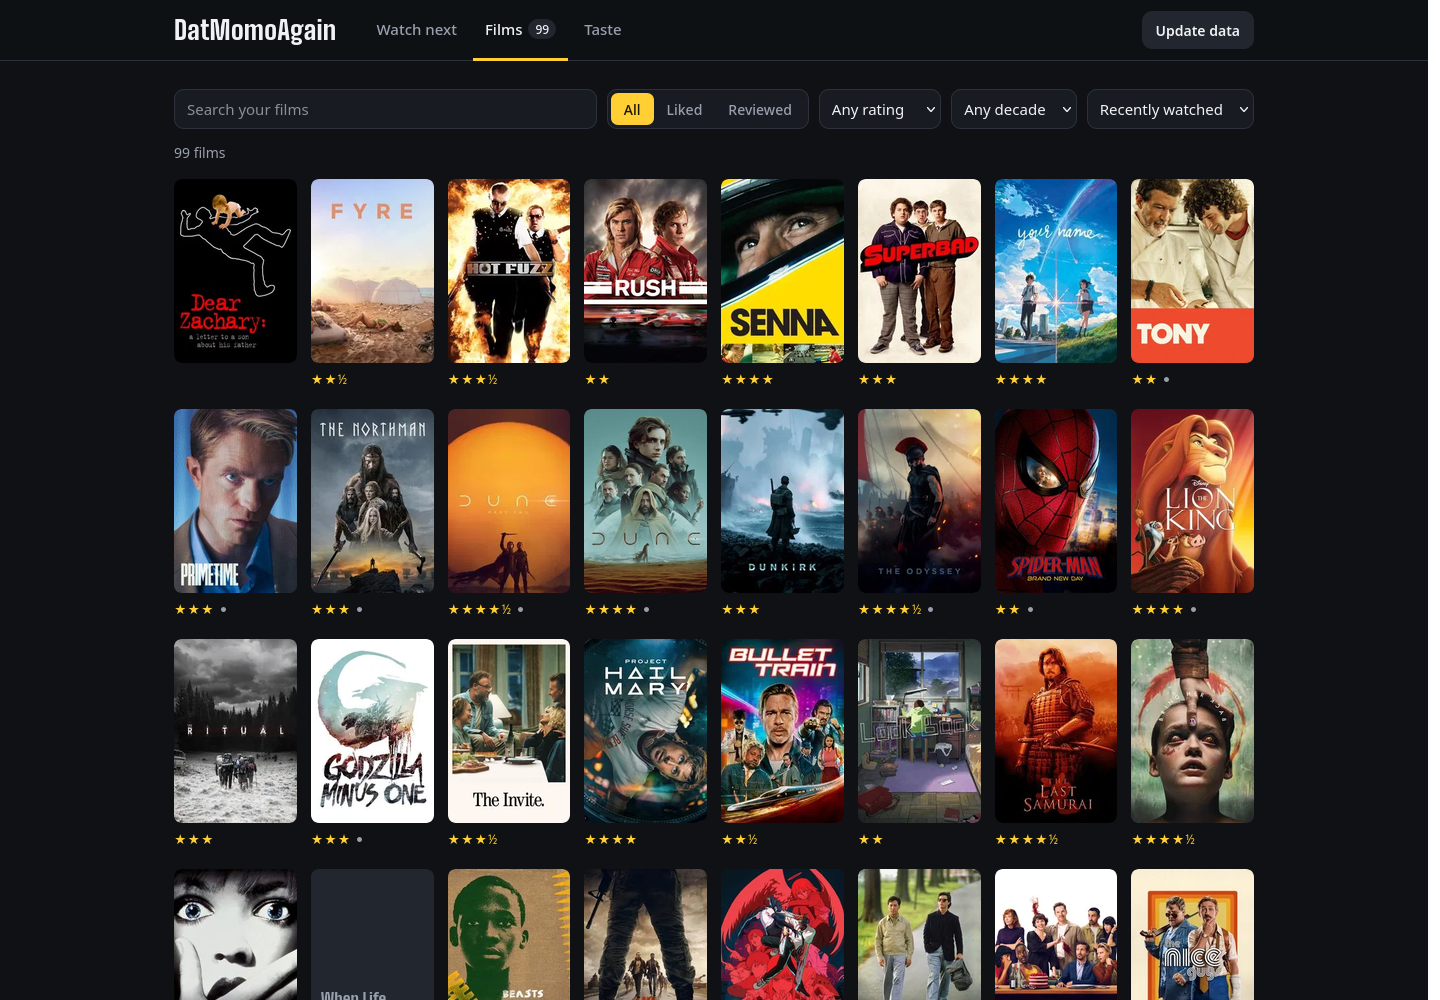
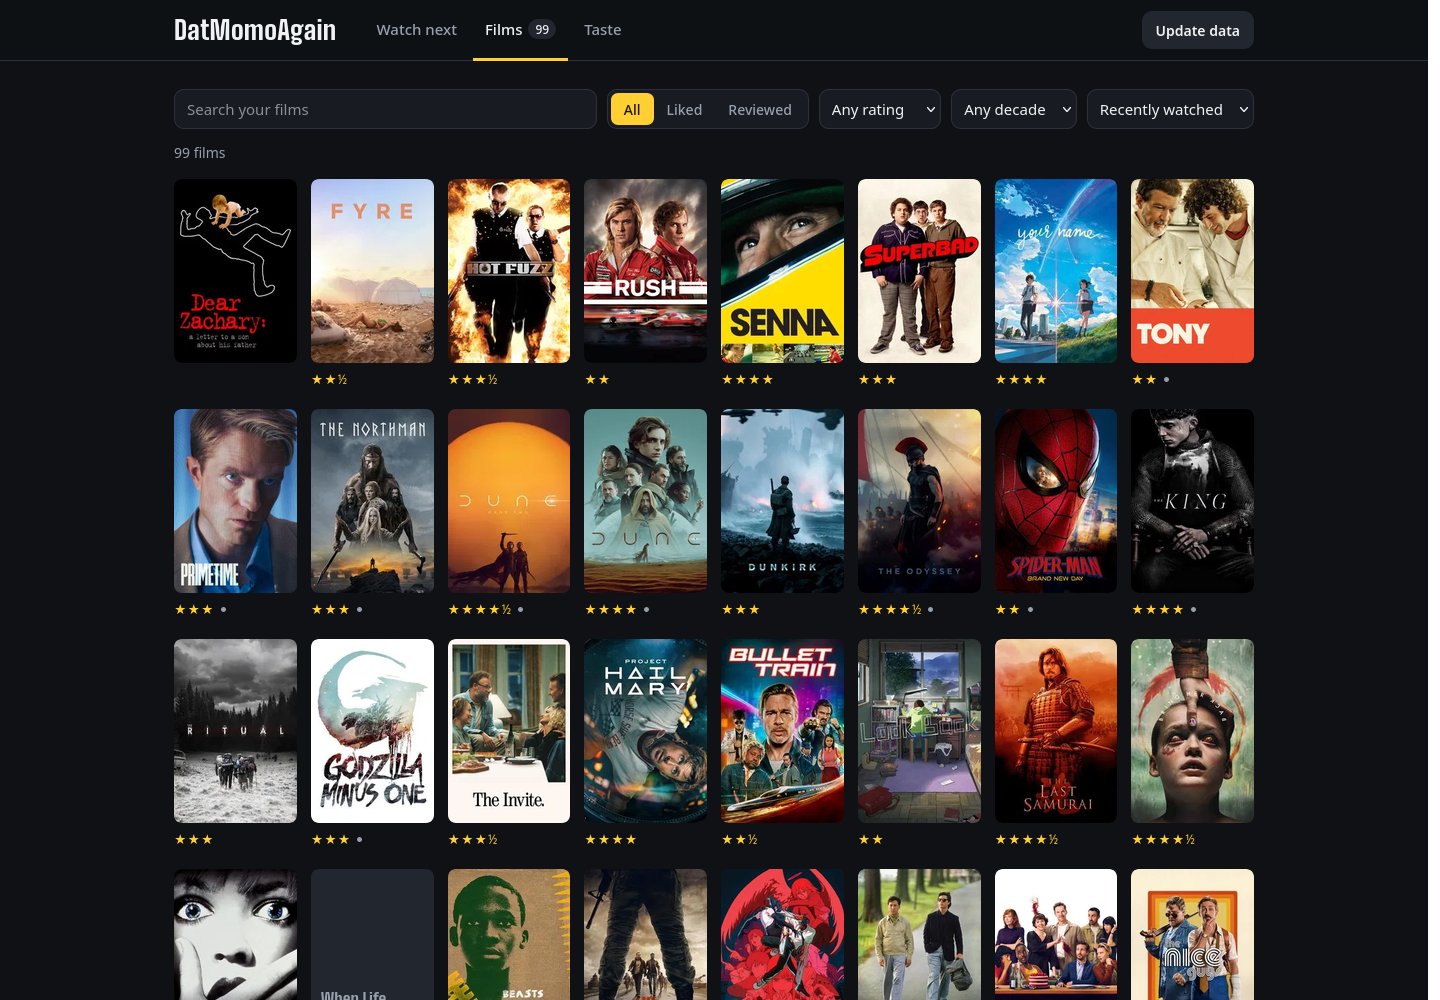
Match posters by exact title and year, and by IMDb id for picks
TMDB ranks search results by popularity, so "The King" (2019) was getting
The Lion King's poster. Refresh the README screenshots.

Changed region(s): [[0.7812, 0.403, 0.875, 0.62]]

diff --git a/src/posters.ts b/src/posters.ts
@@ -16,6 +16,8 @@ export type Posters = Map<string, string>;
 export interface FilmRef {
   title: string;
   year: number | null;
+  /** Known for Claude's picks; makes the poster lookup exact. */
+  imdbId?: string;
 }
 
 export const filmKey = (f: FilmRef) => `${f.title.trim().toLowerCase()}|${f.year ?? ""}`;
@@ -24,16 +26,48 @@ export function posterUrl(path: string, width: 92 | 185 | 342 | 500): string {
   return `https://image.tmdb.org/t/p/w${width}${path}`;
 }
 
-/** One TMDB search; returns the top result's poster_path or null. Throws on network/HTTP errors. */
+interface TmdbResult {
+  title?: string;
+  original_title?: string;
+  release_date?: string;
+  poster_path?: string | null;
+}
+
+/** Titles compare equal regardless of case, accents and punctuation. */
+const plain = (s: string | undefined) =>
+  (s ?? "")
+    .normalize("NFD")
+    .replace(/[̀-ͯ]/g, "")
+    .toLowerCase()
+    .replace(/[^a-z0-9]+/g, "");
+
+/**
+ * One TMDB request; returns a poster_path or null. Throws on network/HTTP errors.
+ * With an IMDb id (picks have one) the film is looked up by it. Otherwise it's a title search,
+ * preferring a result with exactly this title from this year: TMDB ranks by popularity, so
+ * "The King" (2019) would otherwise get The Lion King's poster.
+ */
 async function searchPoster(f: FilmRef, token: string, fetcher: typeof fetch): Promise<string | null> {
-  const q = new URLSearchParams({ query: f.title, include_adult: "false" });
-  if (f.year) q.set("year", String(f.year));
-  const res = await fetcher(`https://api.themoviedb.org/3/search/movie?${q}`, {
-    headers: { authorization: `Bearer ${token}`, accept: "application/json" },
-  });
-  if (!res.ok) throw new Error(`TMDB ${res.status}`);
-  const body = (await res.json()) as { results?: { poster_path?: string | null }[] };
-  const path = body.results?.find((r) => r.poster_path)?.poster_path;
+  const get = async (path: string) => {
+    const res = await fetcher(`https://api.themoviedb.org/3/${path}`, {
+      headers: { authorization: `Bearer ${token}`, accept: "application/json" },
+    });
+    if (!res.ok) throw new Error(`TMDB ${res.status}`);
+    return (await res.json()) as { results?: TmdbResult[]; movie_results?: TmdbResult[]; tv_results?: TmdbResult[] };
+  };
+  let found: TmdbResult | undefined;
+  if (f.imdbId && /^tt\d{5,10}$/.test(f.imdbId)) {
+    const body = await get(`find/${f.imdbId}?external_source=imdb_id`);
+    found = [...(body.movie_results ?? []), ...(body.tv_results ?? [])].find((r) => r.poster_path);
+  } else {
+    const q = new URLSearchParams({ query: f.title, include_adult: "false" });
+    if (f.year) q.set("year", String(f.year));
+    const withPoster = ((await get(`search/movie?${q}`)).results ?? []).filter((r) => r.poster_path);
+    const want = plain(f.title);
+    const sameYear = (r: TmdbResult) => !f.year || Math.abs(Number.parseInt(r.release_date ?? "", 10) - f.year) <= 1;
+    found = withPoster.find((r) => sameYear(r) && (plain(r.title) === want || plain(r.original_title) === want)) ?? withPoster[0];
+  }
+  const path = found?.poster_path;
   return typeof path === "string" && /^\/[\w.-]+$/.test(path) ? path : null;
 }
 

diff --git a/tests/posters.test.ts b/tests/posters.test.ts
@@ -40,6 +40,33 @@ describe("resolvePosters", () => {
     expect(r2.posters.get(filmKey(films[0]))).toBe("/heat.jpg");
   });
 
+  it("prefers the exact title from that year over a more popular near-match, and looks picks up by IMDb id", async () => {
+    const paths: string[] = [];
+    const fetcher = (async (input: RequestInfo | URL) => {
+      const url = new URL(String(input));
+      paths.push(url.pathname);
+      if (url.pathname === "/3/find/tt1663202") {
+        expect(url.searchParams.get("external_source")).toBe("imdb_id");
+        return Response.json({ movie_results: [{ title: "The Revenant", poster_path: "/revenant.jpg" }], tv_results: [] });
+      }
+      return Response.json({
+        results: [
+          { title: "The Lion King", release_date: "2019-07-12", poster_path: "/lion.jpg" },
+          { title: "The King", release_date: "2017-01-18", poster_path: "/korean.jpg" },
+          { title: "The King", release_date: "2019-10-11", poster_path: "/king.jpg" },
+        ],
+      });
+    }) as typeof fetch;
+    const king = { title: "the king!", year: 2019 };
+    const unknown = { title: "Kingly", year: 2019 };
+    const pick = { title: "The Revenant", year: 2015, imdbId: "tt1663202" };
+    const r = await resolvePosters([king, unknown, pick], {}, "tok", NOW, fetcher);
+    expect(r.posters.get(filmKey(king))).toBe("/king.jpg");
+    expect(r.posters.get(filmKey(unknown))).toBe("/lion.jpg"); // no exact title: the top result, as before
+    expect(r.posters.get(filmKey(pick))).toBe("/revenant.jpg");
+    expect(paths.filter((p) => p.startsWith("/3/find/"))).toHaveLength(1);
+  });
+
   it("retries misses after 30 days, and never caches failures", async () => {
     const film = { title: "Obscure", year: 2001 };
     const cache: PosterCache = { [filmKey(film)]: { miss: "2026-10-01T00:00:00Z" } };

diff --git a/src/page.ts b/src/page.ts
@@ -103,7 +103,7 @@ function pendingPicks(data: Dataset | null, memory: Memory) {
 
 /** The picks the page will show. */
 export function picksShown(data: Dataset | null, memory: Memory): FilmRef[] {
-  return pendingPicks(data, memory).map((p) => ({ title: p.title, year: p.year }));
+  return pendingPicks(data, memory).map((p) => ({ title: p.title, year: p.year, ...(p.imdbId && { imdbId: p.imdbId }) }));
 }
 
 /** IMDb ids of the picks the page will show, so scores can be fetched for exactly those. */
